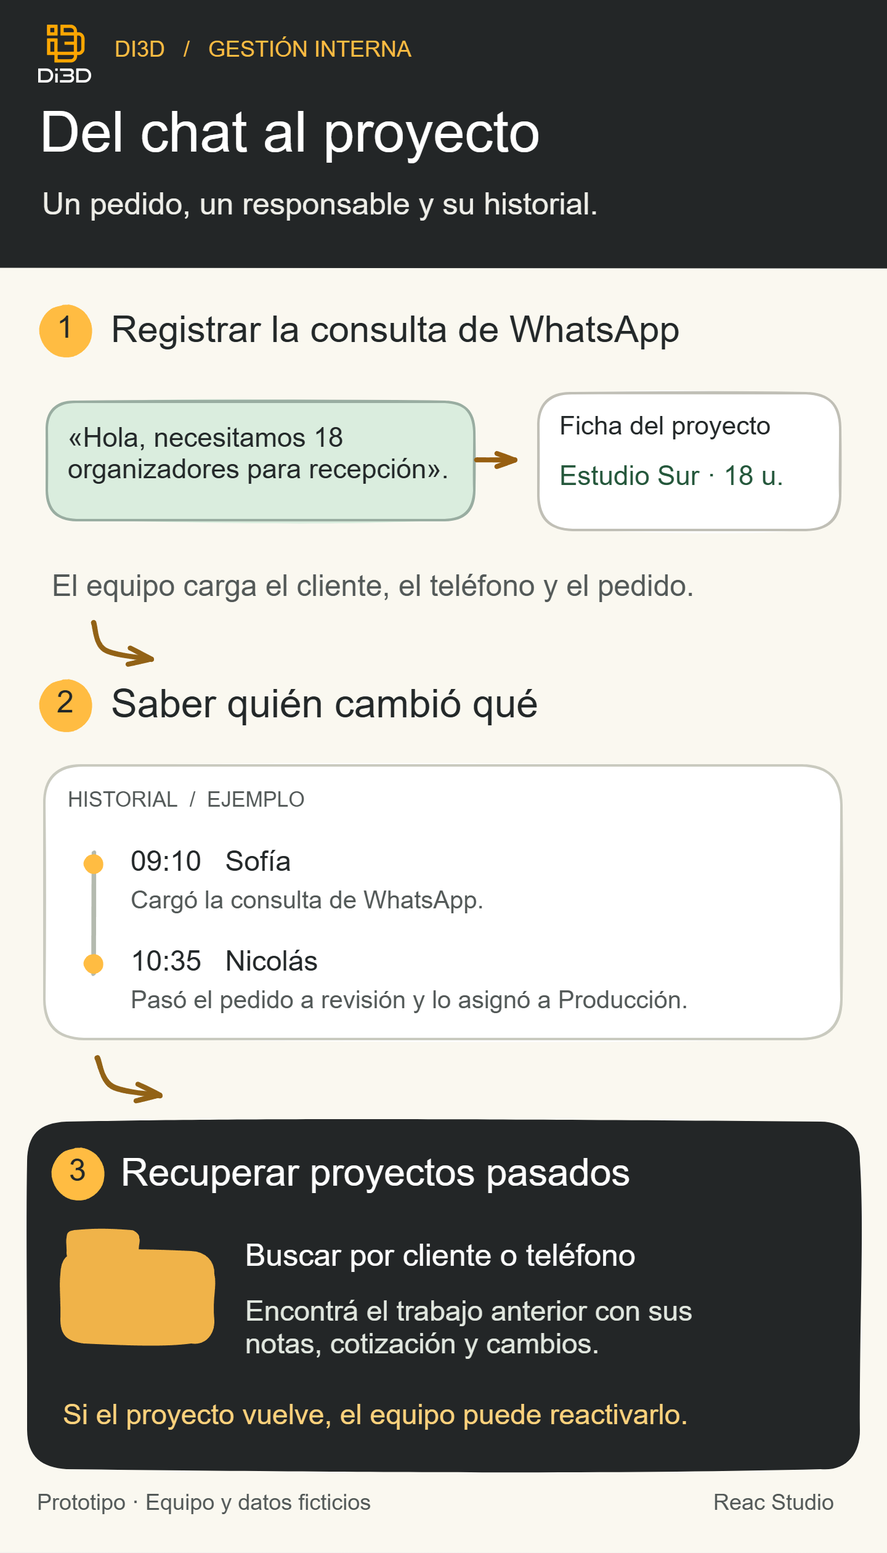
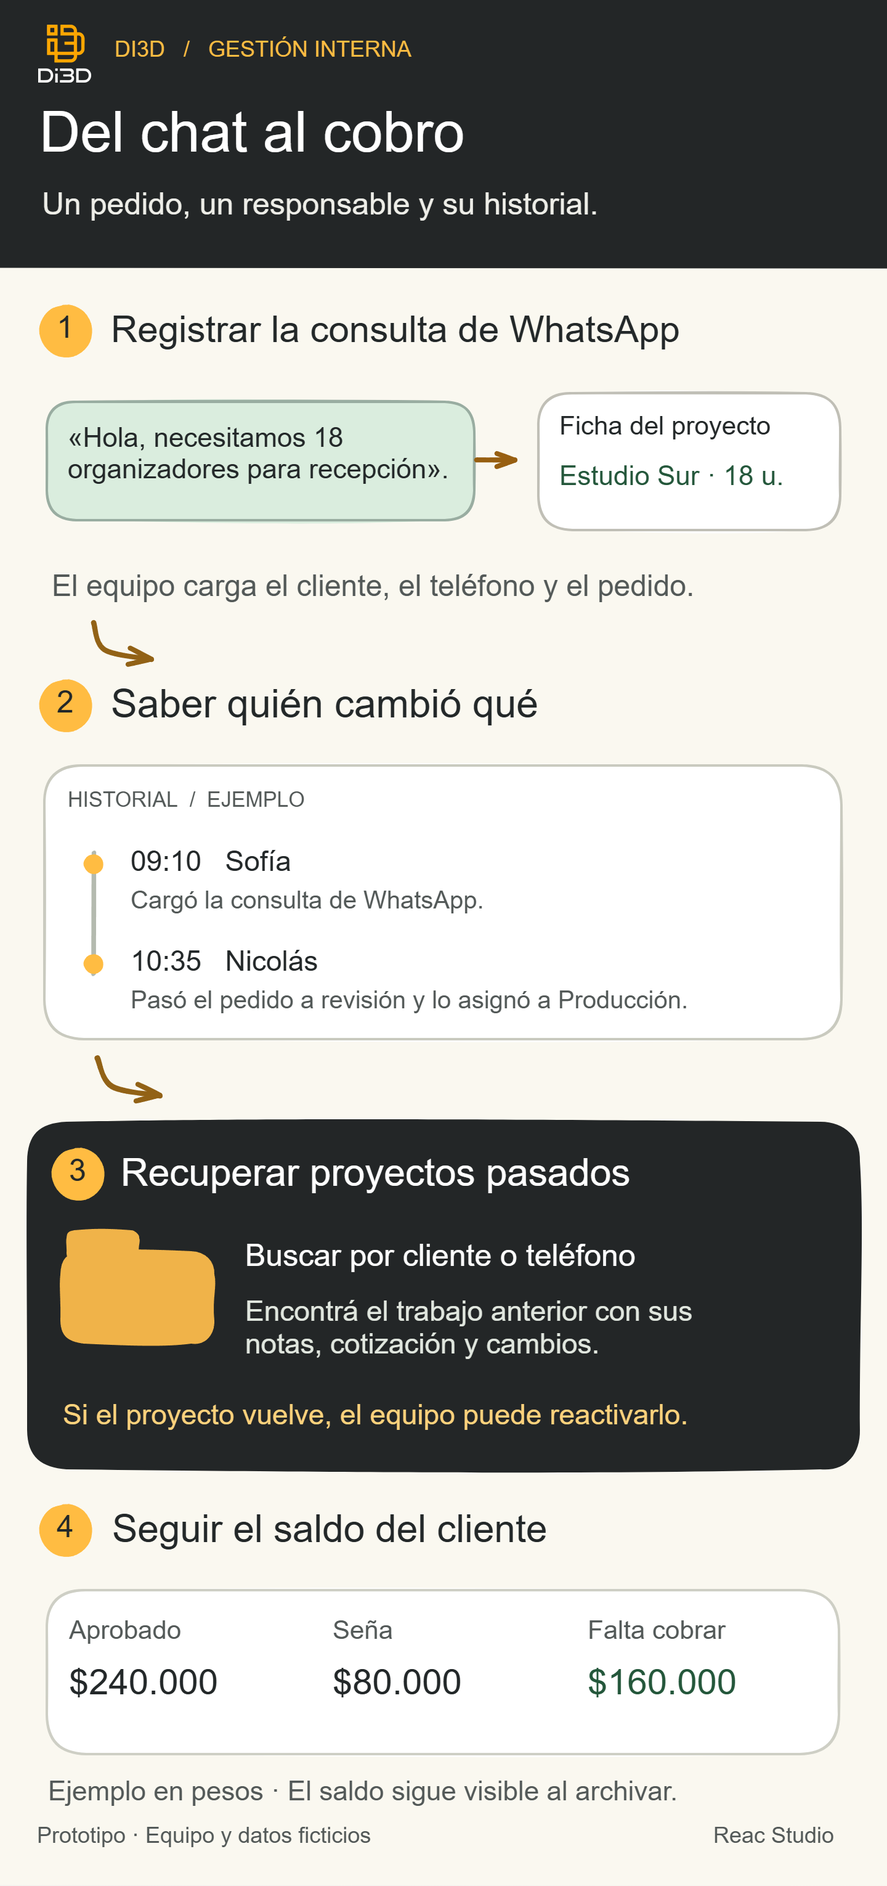
Seguir presupuestos, cobros parciales y saldos por proyecto

diff --git a/panel.js b/panel.js
@@ -1,6 +1,6 @@
 'use strict';
 
-const deskRoutes = { archive:'#equipo/archivo', overview: '#equipo', inbox: '#equipo/solicitudes', board: '#equipo/seguimiento', contacts: '#equipo/contactos' };
+const deskRoutes = { finance:'#equipo/cobros', archive:'#equipo/archivo', overview: '#equipo', inbox: '#equipo/solicitudes', board: '#equipo/seguimiento', contacts: '#equipo/contactos' };
 const teamHash = (page, id) => page === 'receipt' ? '#equipo/' + id : deskRoutes[page];
 const isTeamScreen = page => page === 'receipt' || Object.hasOwn(deskRoutes, page);
 const sessionKey = 'di3d.equipo.demo';
@@ -262,6 +262,7 @@ async function openDesk(page, focus=true) {
     if (screen!==page || version!==deskVersion) return;
     entries.sort((a,b)=>b.createdAt.localeCompare(a.createdAt) || b.id-a.id);
     storageError('');
+    if (page==='finance') { financeEntries=entries; renderFinance(); }
     if (page==='archive') { archiveEntries = entries.filter(e=>e.archived); renderArchive(); }
     if (page==='overview') renderOverview(entries.filter(e=>!e.archived));
     if (page==='board') renderBoard(entries.filter(e=>!e.archived));
@@ -276,6 +277,7 @@ el('home-panel').addEventListener('click',()=>openDesk('overview'));
 
 let offerUrl = '';
 function displayOffer(entry) {
+  renderPayments(entry);
   const offer = entry.offer;
   if (offerUrl) URL.revokeObjectURL(offerUrl);
   offerUrl = offer?.file ? URL.createObjectURL(offer.file) : '';
@@ -300,6 +302,8 @@ el('edit-offer').addEventListener('click', () => {
   const localDate = new Date(today.getTime() - today.getTimezoneOffset() * 60000).toISOString().slice(0,10);
   el('offer-number').value = offer?.number || '';
   el('offer-date').value = offer?.date || localDate;
+  el('offer-amount').value = offer?.cents ? offer.cents / 100 : '';
+  el('offer-approval').value = offer?.approved ? 'approved' : 'pending';
   el('offer-file').value = '';
   el('offer-existing').textContent = offer?.file ? 'PDF guardado: ' + offer.file.name + '. Podés elegir otro para reemplazarlo.' : '';
   el('offer-form').hidden = false;
@@ -324,9 +328,9 @@ el('offer-form').addEventListener('submit', async event => {
   }
   save.disabled = true;
   try {
-    const entry = await requests.quote(id,number,el('offer-date').value,file);
+    const entry = await requests.quote(id,number,el('offer-date').value,file,Math.round(el('offer-amount').valueAsNumber*100),el('offer-approval').value==='approved');
     if (screen !== 'receipt' || selectedId !== id) return;
-    if (!entry) throw new Error();
+    if (!entry) { el('offer-result').textContent='Revisá el importe y la aprobación: deben respetar los cobros vigentes.'; return; }
     renderReceipt(entry);
     if (statusFilter.value && statusFilter.value !== 'quoted') statusFilter.value = '';
     await renderInbox();
@@ -415,7 +419,7 @@ el('archive-project').onclick = async event=>{
 let archiveEntries=[];
 function projectRow(entry) {
   const button=action('', 'archive-row',()=>entry.archived ? openReceipt(entry.id) : visitEntry(entry));
-  button.append(node('strong',entry.piece),node('small',[reference(entry.id),entry.contact,entry.archived?'Archivado':states[entry.state]].join(' · ')));
+  button.append(node('strong',entry.piece),node('small',[reference(entry.id),entry.contact,entry.archived?'Archivado':states[entry.state],entry.offer?.approved?'Saldo '+money(outstanding(entry)):''].filter(Boolean).join(' · ')));
   return button;
 }
 function renderArchive() {
@@ -430,6 +434,102 @@ function showContactProjects(contact) {
   const heading=node('h2','Proyectos de '+contact.name);heading.tabIndex=-1;
   section.append(heading,...contact.entries.map(projectRow));el('contacts').append(section);heading.focus();
 }
+
+let financeEntries = [];
+let financeFilter = 'balance';
+const financeLabels = {pending:'Pendiente de aprobación',balance:'Aprobado por cobrar',received:'Cobrado en el período'};
+function receivedInPeriod(entry) {
+  const period = el('finance-period').value;
+  const now = new Date();
+  const month = localDay(new Date(now.getFullYear(),now.getMonth() - (period==='previous' ? 1 : 0),1)).slice(0,7);
+  return (entry.payments || []).reduce((sum,p)=>sum + (!p.voided && (period==='all' || p.date.startsWith(month)) ? p.cents : 0),0);
+}
+function financeAmount(entry, category) {
+  if (category==='received') return receivedInPeriod(entry);
+  if (category==='balance') return outstanding(entry);
+  return !entry.offer?.approved ? entry.offer?.cents || 0 : 0;
+}
+async function openFinancialProject(entry) {
+  if (entry.archived) await openReceipt(entry.id);
+  else await visitEntry(entry);
+  if (currentEntry?.id===entry.id && screen==='receipt') el('quote-record-title').focus();
+}
+function renderFinance() {
+  const cards=Object.entries(financeLabels).map(([key,label])=>{
+    const button=action('', 'finance-metric', ()=>{
+      financeFilter=key;renderFinance();el('finance-metrics').querySelector('[aria-pressed=true]').focus();
+    });
+    button.setAttribute('aria-pressed',String(financeFilter===key));
+    button.append(node('span',label),node('strong',money(financeEntries.reduce((sum,e)=>sum+financeAmount(e,key),0))));
+    return button;
+  });
+  el('finance-metrics').replaceChildren(...cards);
+  el('finance-detail').textContent=financeLabels[financeFilter];
+  const rows=financeEntries.filter(e=>financeAmount(e,financeFilter)>0).map(e=>{
+    const button=action('','finance-row',()=>openFinancialProject(e));
+    const description=node('span');
+    description.append(node('strong',e.piece),node('small',[e.contact,e.offer.number,e.archived?'Archivado':''].filter(Boolean).join(' · ')));
+    button.append(description,node('strong',money(financeAmount(e,financeFilter))));return button;
+  });
+  el('finance-rows').replaceChildren(...(rows.length ? rows : [node('p','Sin proyectos con importes en esta selección.')]));
+}
+el('quote-record-title').tabIndex=-1;
+el('finance-period').onchange=()=>{financeFilter='received';renderFinance();};
+
+let voidPaymentId;
+const payDialog=el('payment-dialog');
+function editPayment(payment) {
+  voidPaymentId=payment?.id;
+  el('payment-form').reset();
+  message(el('payment-error'));
+  el('payment-title').textContent=payment?'Anular cobro':'Registrar cobro';
+  el('payment-balance').textContent=payment?'Movimiento de '+money(payment.cents)+' del '+shortDay(payment.date):'Saldo disponible: '+money(outstanding(currentEntry));
+  el('payment-fields').hidden=!!payment;
+  el('void-label').hidden=!payment;
+  el('void-reason').required=!!payment;
+  el('payment-amount').required=!payment;
+  el('payment-date').required=!payment;
+  el('payment-amount').max=outstanding(currentEntry)/100;
+  el('payment-date').value=localDay();
+  el('payment-date').max=localDay();
+  payDialog.showModal();
+}
+function renderPayments(entry) {
+  const offer=entry.offer;
+  el('payment-record').hidden=!offer;
+  if (!offer) return;
+  const known=validCents(offer.cents);
+  el('payment-summary').textContent=!known?'Importe pendiente de carga. Editá la cotización para incluirla en los totales.':
+    offer.approved?'Aprobado '+money(offer.cents)+' · Cobrado '+money(paidCents(entry))+' · Saldo '+money(outstanding(entry)):
+    'Pendiente de aprobación · '+money(offer.cents);
+  el('add-payment').hidden=!offer.approved || outstanding(entry)<=0;
+  const rows=[...(entry.payments || [])].reverse().map(p=>{
+    const row=node('div',null,'payment-row');
+    row.append(node('span',shortDay(p.date)+' · '+money(p.cents)+' · '+p.actor));
+    if (p.voided) row.append(node('small','Anulado por '+p.voided.actor+' · '+p.voided.reason));
+    else row.append(action('Anular','text-button',()=>editPayment(p)));
+    return row;
+  });
+  el('payment-list').replaceChildren(...rows);
+}
+el('add-payment').onclick=()=>editPayment();
+el('cancel-payment').onclick=()=>payDialog.close();
+el('payment-form').onsubmit=async e=>{
+  e.preventDefault();
+  const save=e.currentTarget.querySelector('[type=submit]');
+  if(save.disabled || !teamSession()) return;
+  save.disabled=true;
+  try {
+    const id=currentEntry.id;
+    const updated=voidPaymentId ? await requests.voidPayment(id,voidPaymentId,el('void-reason').value) :
+      await requests.collect(id,Math.round(el('payment-amount').valueAsNumber*100),el('payment-date').value);
+    if (!updated) {message(el('payment-error'),'Revisá el saldo disponible, la fecha o el motivo de anulación.');return;}
+    payDialog.close();renderReceipt(updated);
+    el('offer-result').textContent=voidPaymentId?'Cobro anulado.':'Cobro registrado.';
+    el('quote-record-title').focus();
+  } catch { message(el('payment-error'),'No se pudo guardar el movimiento.'); }
+  finally {save.disabled=false;}
+};
 
 if (serverMode) {
   document.querySelector('.demo-inner > span').textContent = 'Gestión local · datos de ejemplo';

diff --git a/pedidos.js b/pedidos.js
@@ -29,13 +29,26 @@ function mockupFor(entry) {
   return entry.sample && Object.hasOwn(sampleMockups, key) ? sampleMockups[key] : null;
 }
 
+const currency = new Intl.NumberFormat('es-AR',{style:'currency',currency:'ARS',minimumFractionDigits:0,maximumFractionDigits:2});
+const money = cents => currency.format(cents / 100);
+const validCents = cents => Number.isSafeInteger(cents) && cents > 0 && cents <= 999999999999;
+function localDay(date = new Date()) {
+  return new Date(date.getTime() - date.getTimezoneOffset()*60000).toISOString().slice(0,10);
+}
+function paidCents(entry) {
+  return (entry.payments || []).reduce((sum,p)=>sum + (p.voided ? 0 : p.cents),0);
+}
+function outstanding(entry) {
+  return entry.offer?.approved ? entry.offer.cents - paidCents(entry) : 0;
+}
+
 const browserRequests = (() => {
   const storeName = 'solicitudes';
   let connection;
   function open() {
     if (!connection) {
       connection = new Promise((resolve, reject) => {
-        const request = indexedDB.open('di3d-cotizaciones-demo', 5);
+        const request = indexedDB.open('di3d-cotizaciones-demo', 6);
         request.onupgradeneeded = (event) => {
           const initialTracking = { state: 'missing', note: 'Confirmar la escala de la maqueta antes de cotizar' };
           const store = event.oldVersion === 0
@@ -78,18 +91,32 @@ const browserRequests = (() => {
               owner: 'Producción', note: 'Revisar el tiempo de impresión del lote de 20 unidades.',
               createdAt: '2026-11-22T10:00:00-03:00' });
           }
-          const createdAt = '2026-11-20T12:10:00Z';
-          const events = [{ at: createdAt, actor: 'Sofía', text: 'Cargó la consulta de WhatsApp.' },
-            { at: '2026-11-20T13:35:00Z', actor: 'Nicolás', text: 'Estado: Nueva → En revisión. Responsable: Producción.' }];
-          const kit = { ...common, source: 'WhatsApp', piece: 'Organizadores para recepción', quantity:'18',
-            service:'Regalos corporativos', mockup:'Regalos empresariales', contact:'Estudio Sur', email:'', phone:'000 555 0142',
-            use:'Hola, necesitamos 18 organizadores para recepción. ¿Podrían cotizarlos?', owner:'Producción',
-            createdAt, state:'review', note:'Verificar el acabado antes de cotizar.', events };
-          store.add(kit);
-          store.add({ ...kit, piece:'Organizadores para oficinas', quantity:'10', use:'Pedido anterior de 10 organizadores.',
-            state:'quoted', archived:true, note:'Trabajo finalizado.', offer:{ number:'COT-018', date:'2026-11-21' },
-            events:[...events,{ at:'2026-11-21T15:00:00Z',actor:'Nicolás',text:'Registró la cotización COT-018.' },
-            { at:'2026-11-23T17:40:00Z',actor:'Sofía',text:'Archivó el proyecto.' }] });
+          if (event.oldVersion < 5) {
+            const createdAt = '2026-11-20T12:10:00Z';
+            const events = [{ at: createdAt, actor: 'Sofía', text: 'Cargó la consulta de WhatsApp.' },
+              { at: '2026-11-20T13:35:00Z', actor: 'Nicolás', text: 'Estado: Nueva → En revisión. Responsable: Producción.' }];
+            const kit = { ...common, source: 'WhatsApp', piece: 'Organizadores para recepción', quantity:'18',
+              service:'Regalos corporativos', mockup:'Regalos empresariales', contact:'Estudio Sur', email:'', phone:'000 555 0142',
+              use:'Hola, necesitamos 18 organizadores para recepción. ¿Podrían cotizarlos?', owner:'Producción',
+              createdAt, state:'review', note:'Verificar el acabado antes de cotizar.', events };
+            store.add(kit);
+            store.add({ ...kit, piece:'Organizadores para oficinas', quantity:'10', use:'Pedido anterior de 10 organizadores.',
+              state:'quoted', archived:true, note:'Trabajo finalizado.', offer:{ number:'COT-018', date:'2026-11-21' },
+              events:[...events,{ at:'2026-11-21T15:00:00Z',actor:'Nicolás',text:'Registró la cotización COT-018.' },
+              { at:'2026-11-23T17:40:00Z',actor:'Sofía',text:'Archivó el proyecto.' }] });
+          }
+          const now = new Date();
+          const date = localDay(now);
+          const base = {...common, source:'WhatsApp', service:'Regalos corporativos', mockup:'Regalos empresariales',
+            contact:'Estudio Sur', phone:'000 555 0142', email:'', owner:'Ventas', state:'quoted',
+            use:'Nueva tanda para el equipo.', note:'', createdAt:now.toISOString()};
+          store.add({...base, piece:'Organizadores · nueva tanda', quantity:'24',
+            offer:{number:'COT-024',date,cents:24000000,approved:true},
+            payments:[{id:'demo-deposit',cents:8000000,date,actor:'Sofía',at:now.toISOString()}],
+            events:[{actor:'Sofía',at:now.toISOString(),text:'Presupuesto aprobado por $240.000. Registró una seña de $80.000.'}]});
+          store.add({...base,piece:'Organizadores · propuesta inicial',quantity:'12',
+            offer:{number:'COT-012',date,cents:12000000,approved:false}});
+
         };
         request.onsuccess = () => {
           request.result.onversionchange = () => { request.result.close(); connection = undefined; };
@@ -163,9 +190,29 @@ const browserRequests = (() => {
     edit: (id, fields) => modify(id, entry => ({ ...entry, ...fields })),
     archive: (id, archived) => modify(id, entry => ({ ...entry, archived }), archived ? 'Archivó el proyecto.' : 'Reactivó el proyecto.'),
     update: (id, state, note, owner, reviewDate) => modify(id, entry => ({ ...entry, state, note, owner, reviewDate, responseAfterQuote: false })),
-    quote: (id, number, date, file) => modify(id, entry => ({
-      ...entry, state: 'quoted', responseAfterQuote: false, offer: { number, date, file: file ?? entry.offer?.file ?? null }
-    }), 'Registró la cotización ' + number + ' del ' + date + (file ? ' con PDF ' + file.name : '') + '.'),
+    quote: (id, number, date, file, cents, approved) => modify(id, entry => {
+      const paid = paidCents(entry);
+      if (!validCents(cents) || cents < paid || (paid > 0 && !approved)) return;
+      return {...entry,state:'quoted',responseAfterQuote:false,
+        offer:{number,date,cents,approved,file:file ?? entry.offer?.file ?? null}};
+    }, 'Actualizó la cotización ' + number + ' · ' + money(cents) + (approved ? ' · Aprobada' : ' · Pendiente de aprobación')),
+    collect: (id, cents, date) => {
+      const actor = activeMember();
+      return modify(id, entry => {
+        if (!entry.offer?.approved || !validCents(cents) || cents > outstanding(entry) || !date || date > localDay()) return;
+        const movement = {id:crypto.randomUUID(),cents,date,actor,at:new Date().toISOString()};
+        return {...entry,payments:[...(entry.payments || []),movement]};
+      }, 'Registró un cobro de ' + money(cents) + ' con fecha ' + date);
+    },
+    voidPayment: (id, paymentId, reason) => {
+      const actor = activeMember();
+      return modify(id, entry => {
+        const payment = entry.payments?.find(p=>p.id === paymentId);
+        if (!payment || payment.voided || !reason.trim()) return;
+        return {...entry,payments:entry.payments.map(p=>p.id === paymentId ?
+          {...p,voided:{actor,at:new Date().toISOString(),reason:reason.trim()}} : p)};
+      }, 'Anuló un cobro. Motivo: ' + reason.trim());
+    },
     ask: (id, question) => modify(id, entry => {
       const thread = entry.clarifications ?? [];
       if (!question || thread.some(item => !item.answer)) return;

diff --git a/index.html b/index.html
@@ -33,6 +33,7 @@
       <button type="button" data-section="inbox"><img src="iconos-tabler/inbox.svg" alt="">Solicitudes</button>
       <button type="button" data-section="board"><img src="iconos-tabler/layout-kanban.svg" alt="">Seguimiento</button>
       <button type="button" data-section="contacts"><img src="iconos-tabler/users.svg" alt="">Contactos</button>
+      <button type="button" data-section="finance"><img src="iconos-tabler/circle-check.svg" alt="">Presupuestos y cobros</button>
       <button type="button" data-section="archive"><img src="iconos-tabler/inbox.svg" alt="">Archivo</button>
     </nav>
     <button type="button" id="logout"><img src="iconos-tabler/logout.svg" alt="">Cerrar sesión</button>
@@ -73,6 +74,12 @@
         <section class="recent"><header><h2>Últimas solicitudes</h2><button type="button" class="text-button" data-go="inbox">Ver todas →</button></header><div id="recent-list"></div></section>
         <section class="task-box"><h2>Para atender</h2><div id="task-list"></div></section>
       </div>
+    </section>
+    <section id="finance" class="desk-view" aria-labelledby="finance-title" hidden>
+      <header class="desk-head"><div><p class="desk-kicker">Administración · ARS</p><h1 id="finance-title" tabindex="-1">Presupuestos y cobros</h1></div></header>
+      <div class="finance-metrics" id="finance-metrics" role="group" aria-label="Ver proyectos por importe"></div>
+      <div class="finance-head"><h2 id="finance-detail"></h2><label>Período de cobros <select id="finance-period"><option value="month">Este mes</option><option value="previous">Mes anterior</option><option value="all">Todo el historial</option></select></label></div>
+      <div id="finance-rows"></div>
     </section>
     <section id="archive" class="desk-view" aria-labelledby="archive-title" hidden>
       <header class="desk-head"><h1 id="archive-title" tabindex="-1">Proyectos pasados</h1></header>
@@ -316,10 +323,16 @@
             <form id="offer-form" hidden>
               <div class="plan-fields"><div class="field"><label for="offer-number">Número de cotización</label><input id="offer-number" maxlength="80" required></div>
               <div class="field"><label for="offer-date">Fecha de cotización</label><input type="date" id="offer-date" required max="9999-12-31"></div></div>
+              <div class="plan-fields"><label>Importe en pesos<input id="offer-amount" type="number" required min="0.01" max="9999999999.99" step=".01"></label><label>Estado del presupuesto<select id="offer-approval"><option value="pending">Pendiente de aprobación</option><option value="approved">Aprobado</option></select></label></div>
               <div class="field"><label for="offer-file">PDF de la cotización <span>(opcional, hasta 15 MB)</span></label><input type="file" accept=".pdf,application/pdf" id="offer-file"></div>
               <p id="offer-existing" class="small muted"></p>
               <div class="form-actions"><button class="button primary" type="submit" id="save-offer">Guardar como cotizada</button> <button type="button" class="text-button" id="cancel-offer">Cancelar</button></div>
             </form>
+            <section id="payment-record" hidden>
+              <h3>Presupuesto y cobros</h3><p id="payment-summary"></p>
+              <button type="button" class="button primary" id="add-payment">Registrar cobro</button>
+              <div id="payment-list"></div>
+            </section>
             <p id="offer-result" role="status" class="small"></p>
           </section>
         </div>
@@ -327,6 +340,12 @@
     </section>
     </div>
   </main>
+  <dialog id="payment-dialog" aria-labelledby="payment-title"><form id="payment-form">
+    <h2 id="payment-title">Registrar cobro</h2><p id="payment-balance"></p>
+    <div id="payment-fields"><label>Importe en pesos<input id="payment-amount" type="number" step=".01" min=".01"></label><label>Fecha del cobro<input type="date" id="payment-date"></label></div>
+    <label id="void-label" hidden>Motivo de anulación<input id="void-reason" maxlength="200"></label>
+    <p id="payment-error" role="alert" hidden></p><div class="form-actions"><button class="button primary" type="submit">Confirmar</button><button type="button" class="text-button" id="cancel-payment">Cancelar</button></div>
+  </form></dialog>
   <dialog id="project-dialog" aria-labelledby="project-dialog-title">
     <form id="project-editor">
       <h2 id="project-dialog-title">Cargar consulta de WhatsApp</h2>

diff --git a/panel.css b/panel.css
@@ -246,3 +246,22 @@ body[data-view=receipt][data-archived] #inbox {display:none}
 body[data-view=receipt][data-archived] .workspace {display:block}
 @media(max-width:900px){.rail nav {grid-template-columns:repeat(5,minmax(0,1fr))}}
 @media(max-width:650px){#member-label{font-size:12px}body[data-team] .masthead-inner{gap:6px;flex-wrap:wrap}.rail nav button{font-size:11px}}
+.finance-metrics {display:grid;grid-template-columns:repeat(3,minmax(0,1fr));gap:10px}
+.finance-metric {padding:18px;text-align:left;background:#fafaf7;color:var(--ink);border:1px solid var(--line);border-radius:9px}
+.finance-metric[aria-pressed=true] {background:#fff3ce;border-color:#ab822d}
+.finance-metric strong,.finance-row small {display:block}
+.finance-metric strong {font-size:clamp(22px,2.5vw,36px);margin-top:8px}
+.finance-head,.finance-row,.payment-row {display:flex;justify-content:space-between;align-items:center;gap:12px}
+.finance-head {margin:24px 0 10px;flex-wrap:wrap}
+.finance-head select {width:auto}
+.finance-row {width:100%;padding:14px 4px;background:white;border:0;border-top:1px solid var(--line);text-align:left;color:var(--ink)}
+.finance-row:hover {background:#fff7df}
+.finance-row small {margin-top:3px;color:var(--muted)}
+#payment-record {margin:14px 0;padding:14px;border:1px solid var(--line);border-radius:8px}
+#payment-summary {margin:8px 0 12px}
+.payment-row {border-top:1px solid var(--line);margin-top:8px;padding-top:8px;flex-wrap:wrap}
+#payment-dialog {width:min(94vw,430px);border:1px solid var(--line);border-radius:12px;padding:20px}
+#payment-dialog::backdrop {background:#191d1aba}
+#payment-form {display:grid;gap:14px} #payment-form label {display:grid;gap:5px;margin-bottom:8px}
+@media(max-width:900px){.rail nav {grid-template-columns:repeat(6,minmax(0,1fr))}}
+@media(max-width:650px){.rail nav {grid-template-columns:repeat(3,minmax(0,1fr))}.rail nav button{flex-direction:row}.finance-metrics {grid-template-columns:1fr}.finance-metric {display:flex;align-items:center;justify-content:space-between;padding:12px}.finance-metric strong{margin:0}}

diff --git a/demo.js b/demo.js
@@ -11,7 +11,7 @@ const noteInput = el('internal-note');
 const screens = {
   home: el('home'), form: el('edit-view'), confirmation: el('confirmation'),
   inbox: el('inbox'), receipt: el('receipt'), reply: el('clarification-view'),
-  archive: el('archive'), login: el('login'), overview: el('overview'), board: el('board'), contacts: el('contacts')
+  finance: el('finance'), archive: el('archive'), login: el('login'), overview: el('overview'), board: el('board'), contacts: el('contacts')
 };
 const dateFormat = new Intl.DateTimeFormat('es-AR', { day: 'numeric', month: 'short', year: 'numeric' });
 const imageTypes = ['image/png', 'image/jpeg', 'image/webp', 'image/gif', 'image/avif', 'image/bmp'];

diff --git a/README.md b/README.md
@@ -5,3 +5,4 @@
 Entrá con la clave de muestra precargada y tocá **Cargar consulta de WhatsApp → Usar un mensaje de ejemplo**. Guardá el proyecto y elegí otro integrante de muestra. Al editar la cantidad o el seguimiento, el historial registra el cambio, quién lo hizo y cuándo. Podés archivar el proyecto, buscarlo por cliente o teléfono y reactivarlo.
 
 Los integrantes y trabajos son ficticios. La carga desde WhatsApp es manual. IndexedDB conserva los datos en el navegador de la demo. El acceso y los cambios de integrante simulan el trabajo de un equipo. GitHub Pages sirve la muestra desde la raíz de main.
+En **Presupuestos y cobros**, abrí **Organizadores · nueva tanda** de Estudio Sur. La muestra empieza con $240.000 aprobados y una seña de $80.000. Registrá un cobro de $60.000 para ver el saldo de $100.000. El detalle conserva los movimientos anulados y el historial del equipo. Archivar el proyecto mantiene su saldo en administración.
